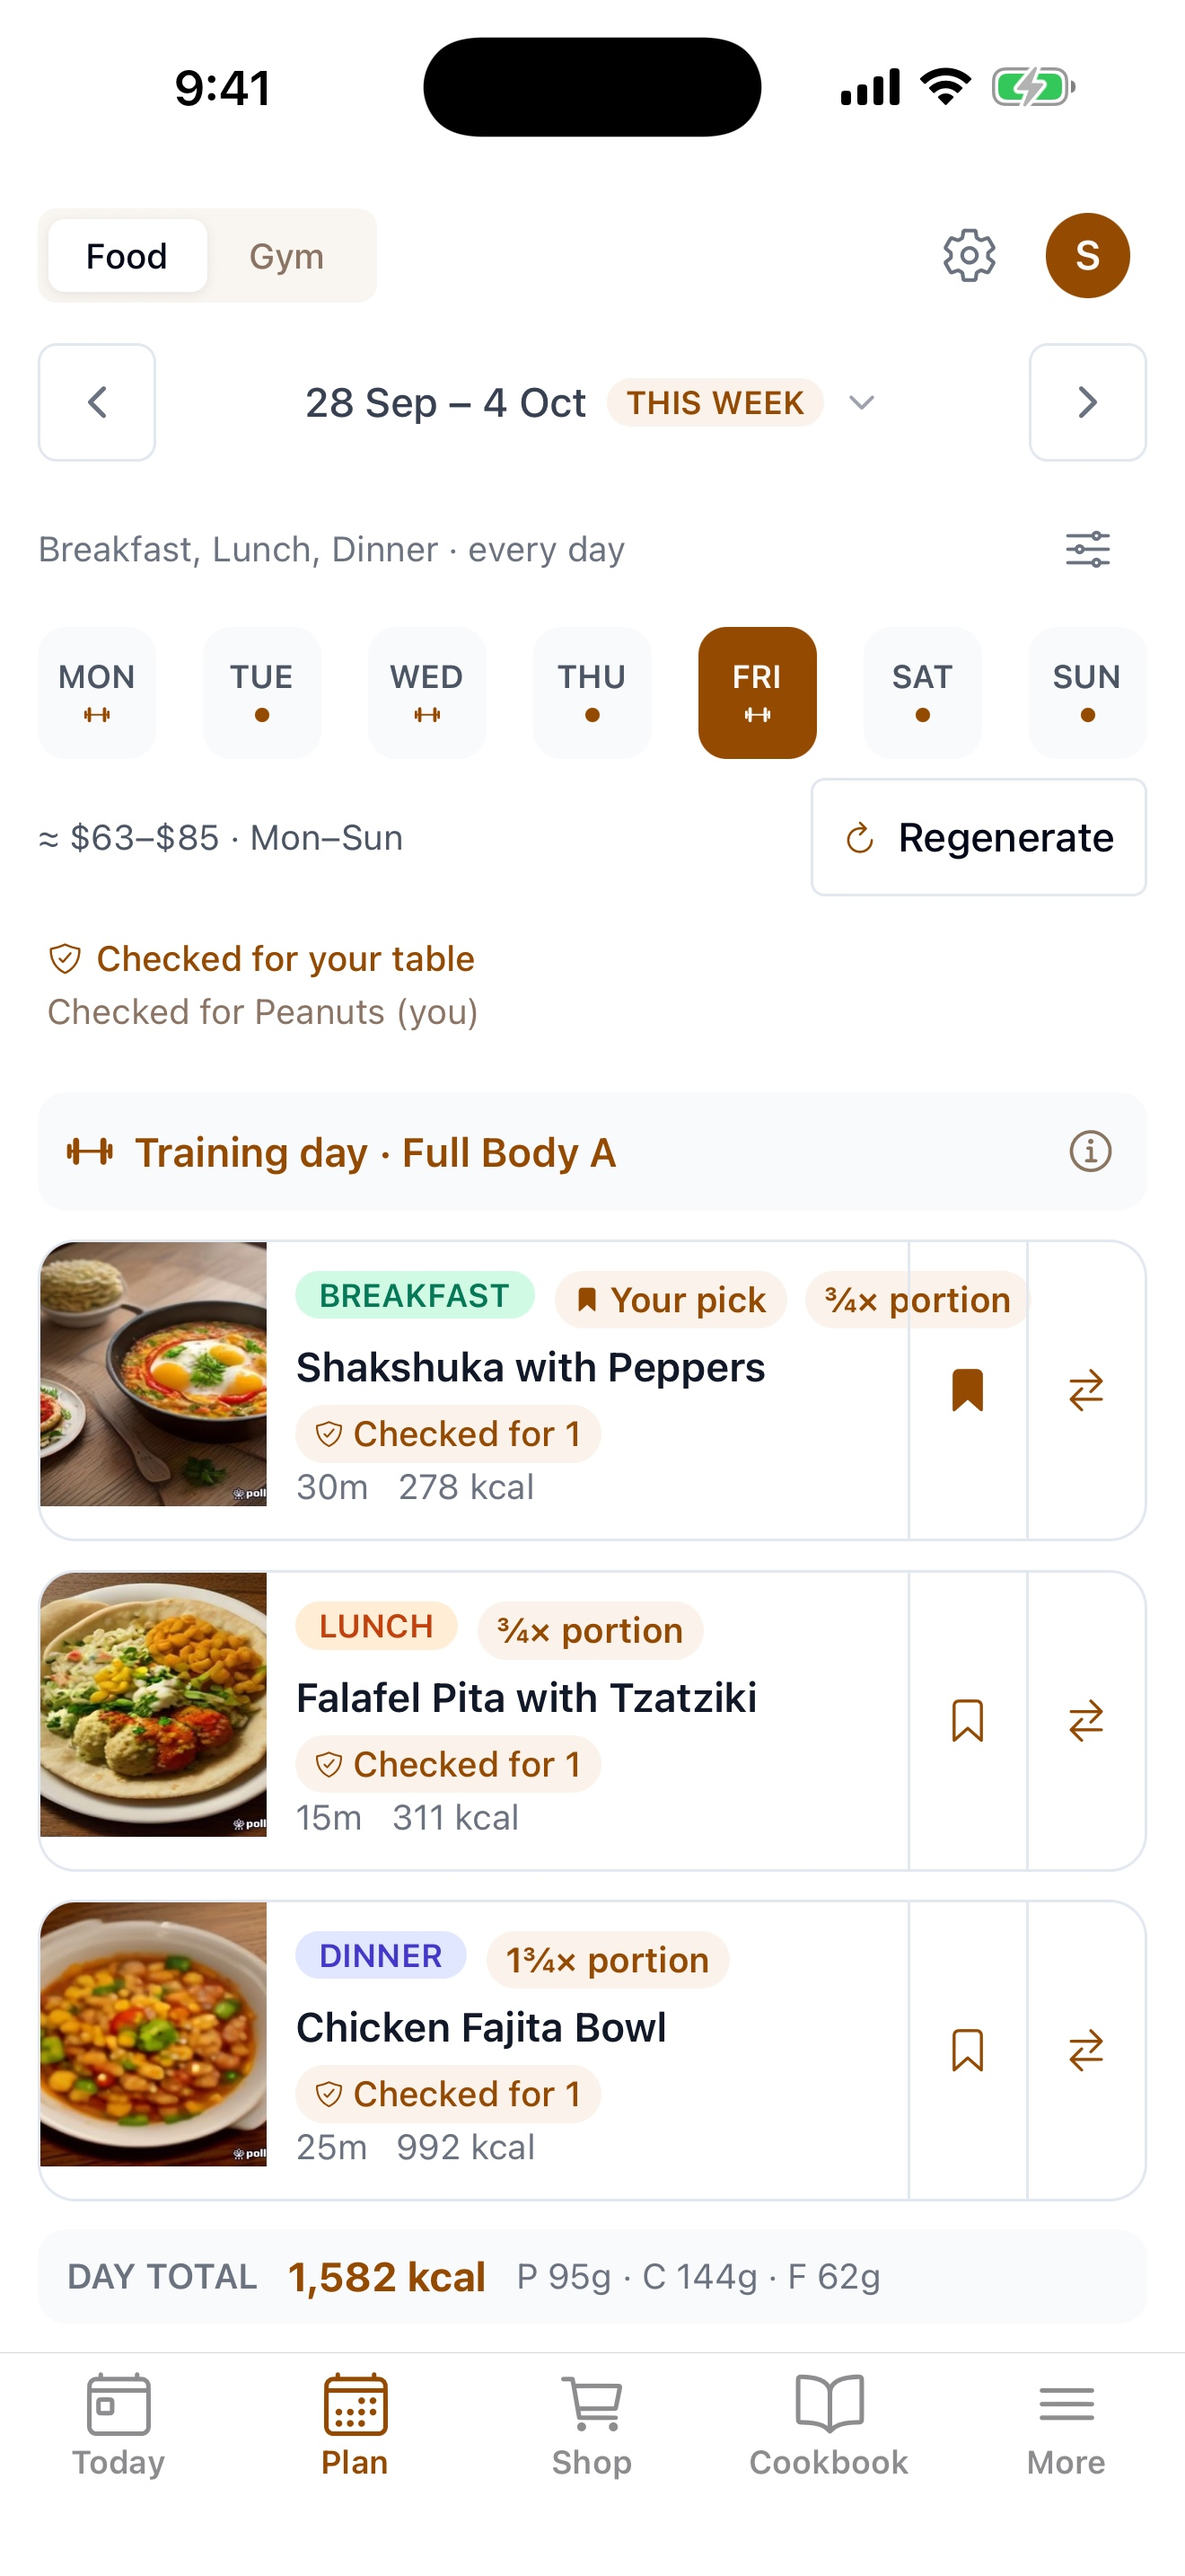
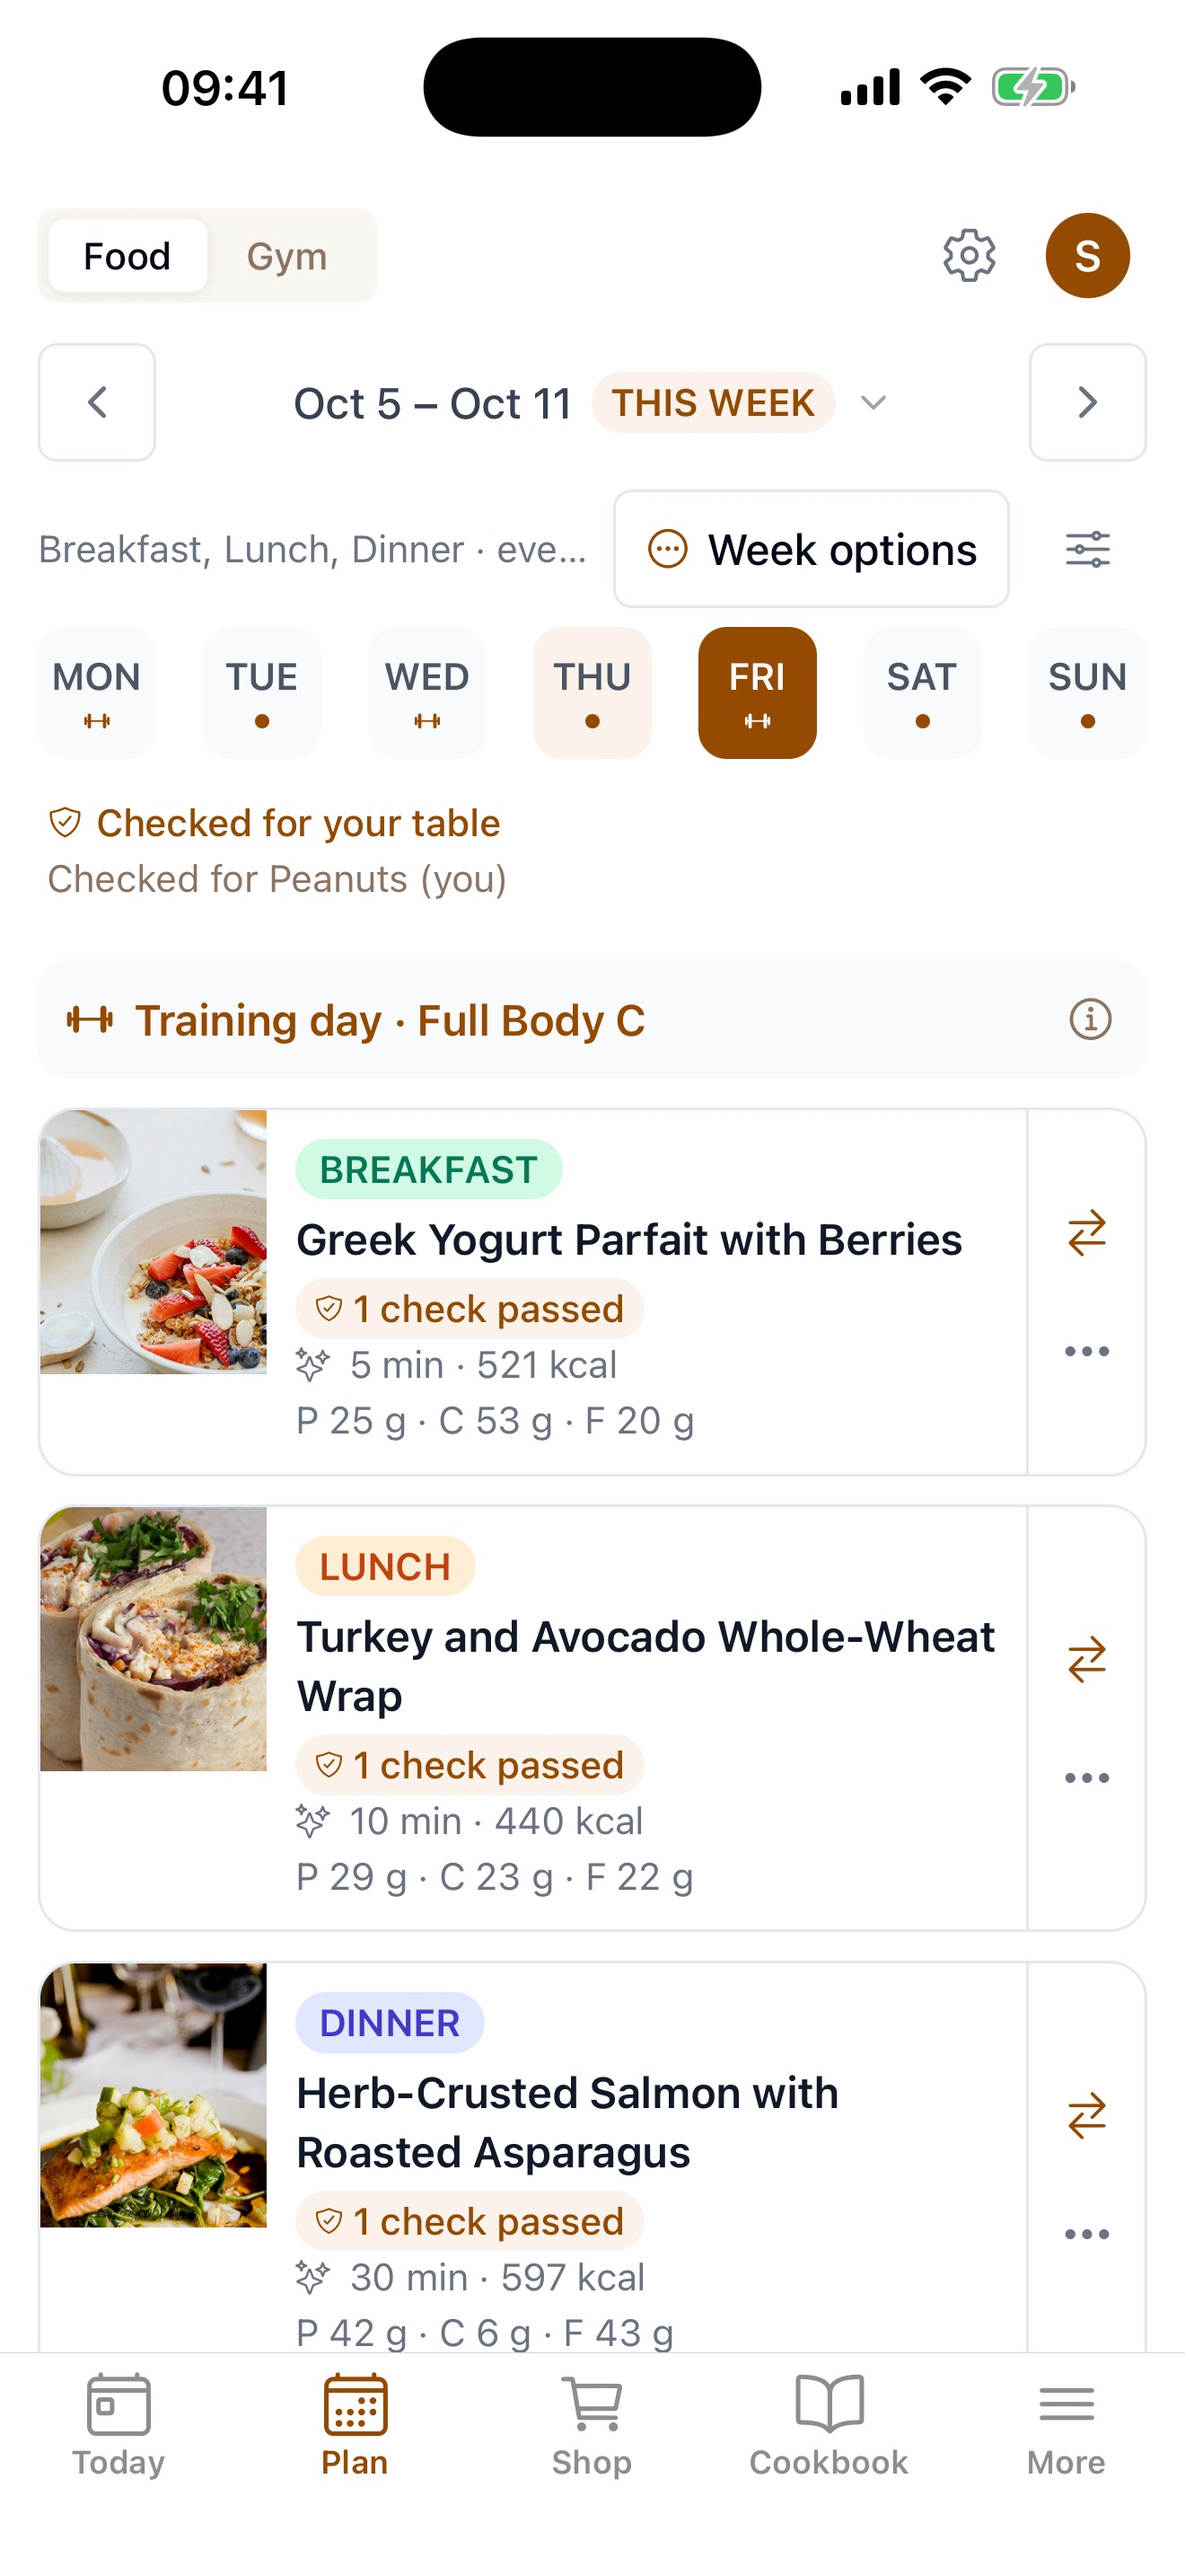
docs: App Store 1.0.1 (8) screenshots and review notes
Retake Plan/Shop shots; notes cover social sign-in and Week options.

diff --git a/docs/app-store/ios/review-notes.md b/docs/app-store/ios/review-notes.md
@@ -45,9 +45,12 @@ The account above already has a meal plan, recipes and a logged workout. Premium
 WHERE THINGS ARE
 - Food mode (default): Today, Plan, Shop, Cookbook, More tabs.
 - Gym mode: use the Food/Gym switch in the header of the Food tabs. Gym works offline.
-- Account deletion: More → Profile → scroll to "Privacy & data" → "Your data" (last card) → "Delete account". It asks for the password and for DELETE to be typed, then permanently deletes the account and all its data and signs out everywhere.
+- Account deletion: More → Profile → scroll to "Privacy & data" → "Your data" (last card) → "Delete account". It asks for the password (or a fresh Apple/Google sign-in for accounts created that way) and for DELETE to be typed, then permanently deletes the account and all its data and signs out everywhere. The same card has "Sign out".
 - Health information consent: the first time allergies, a diet, a goal, body measurements or a weigh-in are saved, the app asks for permission to store them (Allow and save / Don't save it; "Don't save it" stores none of it). It is separate from the AI consent below. It can be withdrawn, deleting that data, under More → Profile → "Privacy & data" → "Health information" → "Withdraw and delete".
-- AI data consent: the first time an AI feature is used (plan generation, meal-photo scan, recipe import, chat) the app explains what is sent to Groq and Cloudflare Workers AI and asks for permission (Allow / Not now; "Not now" sends nothing). It can be withdrawn under More → Profile → "Privacy & data" → "AI & your data". To see the consent sheet on the demo account, switch that toggle off, then on the Plan tab tap "Regenerate" and confirm.
+- AI data consent: the first time an AI feature is used (plan generation, meal-photo scan, recipe import, chat) the app explains what is sent to Groq and Cloudflare Workers AI and asks for permission (Allow / Not now; "Not now" sends nothing). It can be withdrawn under More → Profile → "Privacy & data" → "AI & your data". To see the consent sheet on the demo account, switch that toggle off, then on the Plan tab tap "Week options" → "New meal plan for this week" and confirm.
+
+SIGN-IN
+Email and password, Sign in with Apple and Sign in with Google are all offered on the sign-in screen. Deleting an account that was created with Sign in with Apple also revokes its Apple token.
 
 PERMISSIONS
 - Camera / Photos: only when the user chooses to scan a meal (Tracker → Snap to log) or add a photo to a recipe.
@@ -57,17 +60,17 @@ HEALTH
 Calorie and macro targets are general guidance computed from the user's own inputs; the app does not diagnose or treat any condition and says so in the App Store description.
 
 CONTENT
-Exercise photos are from free-exercise-db (public domain). Exercise videos are embedded YouTube videos from their original channels; the player and the Terms/Privacy pages are locked to their own content, and any other link opens in Safari. Recipe import reads only the page URL or text the user supplies.
+Exercise photos come from the open free-exercise-db dataset and openly licensed Wikimedia Commons images (credited in the app's sources); a few are AI-generated illustrations. Ingredient thumbnails in the shopping list are AI-generated illustrations. Exercise videos are embedded YouTube videos from their original channels; the player and the Terms/Privacy pages are locked to their own content, and any other link opens in Safari. Recipe import reads only the page URL or text the user supplies.
 
 FOLLOWING
 The app contains a 'Following' feature (following other users) that is switched off on the server for every account. It will only be enabled together with a future app version submitted for review.
 ```
 
-> The paths above were checked against `master` at wave 4 (30 Sep 2026): the tab names (Today,
+> The paths above were re-checked against `master` on 8 Oct 2026 (1.0.1 build 8): the tab names (Today,
 > Plan, Shop, Cookbook, More), the More → Profile route, the Profile "Privacy & data" section
-> (Health information, AI & your data, Usage analytics, Consent history, Gym settings, Your data),
-> the "Delete account" button and the Plan tab's Regenerate button all exist. Re-check them on the
-> TestFlight build before pasting.
+> (Health information, AI & your data, Usage analytics, Consent history, Gym settings, Your data with
+> Export · Sign out · Delete account) and the Plan tab's "Week options" sheet all exist. Re-check them on
+> the TestFlight build before pasting.
 
 ## Attachment (optional but helps)
 

diff --git a/docs/app-store/ios/screenshots/README.md b/docs/app-store/ios/screenshots/README.md
@@ -8,15 +8,15 @@ App Store Connect scales it down for smaller iPhones. No iPad set is needed
 Upload order = the order below. The first three appear in search results, so they carry the pitch.
 All seven are ready in `iphone-6.9/` as alpha-free JPEGs (App Store Connect rejects images with an alpha channel).
 
-| #   | File                 | Screen                                                                 | Caption idea                     |
-| --- | -------------------- | ---------------------------------------------------------------------- | -------------------------------- |
-| 1   | `01-gym-routine.jpg` | Gym Routine: Full Body 3×, every exercise with its "Next" target       | Know what to lift next           |
-| 2   | `02-plan.jpg`        | Plan: "Checked for Peanuts", a "Your pick" pin, training day, cost     | A week of meals, checked for you |
-| 3   | `03-shopping.jpg`    | Shop: "Checked for your table", price range, Share, one item ticked    | One list, sent in a tap          |
-| 4   | `04-today.jpg`       | Today card stack: Tomorrow, things to buy, Later today, Your week      | See today at a glance            |
-| 5   | `05-gym-workout.jpg` | Active workout: prefilled sets, PR, reps-in-reserve prompt, rest timer | Log a set in one tap             |
-| 6   | `06-gym-summary.jpg` | Workout done: PR and "Next time" with its reason                       | Know what to lift next time      |
-| 7   | `07-cook.jpg`        | Cook mode step with a running timer                                    | Cook it step by step             |
+| #   | File                 | Screen                                                                              | Caption idea                     |
+| --- | -------------------- | ----------------------------------------------------------------------------------- | -------------------------------- |
+| 1   | `01-gym-routine.jpg` | Gym Routine: Full Body 3×, every exercise with its "Next" target                    | Know what to lift next           |
+| 2   | `02-plan.jpg`        | Plan: "Checked for Peanuts", training day, Week options, macros per meal            | A week of meals, checked for you |
+| 3   | `03-shopping.jpg`    | Shop: "From your plan's recipes", "Checked for your table", price range, thumbnails | One list, sent in a tap          |
+| 4   | `04-today.jpg`       | Today card stack: Tomorrow, things to buy, Later today, Your week                   | See today at a glance            |
+| 5   | `05-gym-workout.jpg` | Active workout: prefilled sets, PR, reps-in-reserve prompt, rest timer              | Log a set in one tap             |
+| 6   | `06-gym-summary.jpg` | Workout done: PR and "Next time" with its reason                                    | Know what to lift next time      |
+| 7   | `07-cook.jpg`        | Cook mode step with a running timer                                                 | Cook it step by step             |
 
 **Retaken 2 Oct 2026** (App Review simulation R-06) from the `fix/app-review-2026-10` Release build on the
 iPhone 17 Pro Max simulator (iOS 26.5, en_US region → dollars and imperial units, status bar 9:41) with a
@@ -24,6 +24,11 @@ local Free demo account ("Sam", peanut allergy, curated week, Full Body 3×). Th
 shots (Apple needs 3–10). Deliberately left out, per the rules below: the Household editor (its page
 carries a Premium upsell), Profile › Privacy & data (its coach-review note says "(Premium)"), and the top
 of Today (the Free "Snap to log" example card). The previous set (26 Sep, before waves 1–3) was removed.
+
+**8 Oct 2026:** `02-plan` and `03-shopping` retaken for 1.0.1 (8) after the tester-feedback round (Plan cards with
+macros and one "Week options" button, no price line; Shop without "In my kitchen", with ingredient thumbnails),
+on the iPhone 17 Pro Max simulator (dev client, status bar 9:41, same local "Sam" demo data). `06-gym-summary`
+kept: the only change there is that exercise names are no longer underlined.
 
 Before uploading, check the shots against the build you submit; retake any screen that changed since.
 
